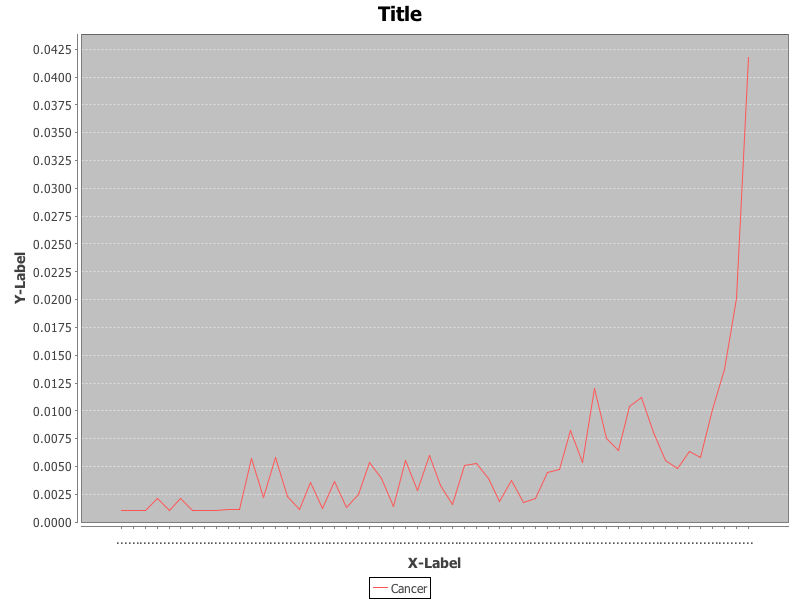
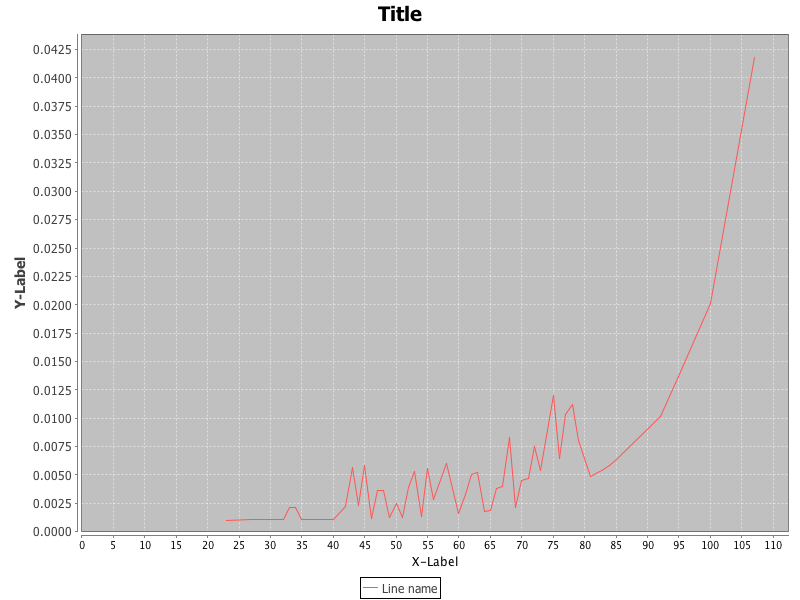
Rewrote the ChartCreator by implementing a builder-type pattern to minimize the number of arguments per function and making it easier to implement more types of charts and settings.

diff --git a/SparkMaster/src/main/java/christianmesch/sparkmaster/misc/ChartCreator.java b/SparkMaster/src/main/java/christianmesch/sparkmaster/misc/ChartCreator.java
@@ -16,52 +16,174 @@ import java.util.Map.Entry;
 import org.jfree.chart.ChartFactory;
 import org.jfree.chart.ChartUtilities;
 import org.jfree.chart.JFreeChart;
+import org.jfree.chart.axis.NumberAxis;
+import org.jfree.chart.axis.NumberTickUnit;
 import org.jfree.chart.plot.PlotOrientation;
-import org.jfree.data.category.DefaultCategoryDataset;
+import org.jfree.chart.plot.XYPlot;
+import org.jfree.data.xy.XYSeries;
+import org.jfree.data.xy.XYSeriesCollection;
 
 /**
- *
+ * Class for creating charts. It's built using a patten which resembles builder pattern. <br>
+ * You use it by creating an instance of the class and then call setters one after another, <br>
+ * i.e. chart.setTitle("Title").setxLabel("X-label");<br>
+ * and then call the method for the chart you want <br>
+ * i.e. chart.createRateChart();
+ * 
  * @author Christian Mesch
  */
 public class ChartCreator {
+
+	private final Report report;
+	private String filePath;
+	private String title;
+	private String xLabel;
+	private String yLabel;
+	private String lineName;
+	private int width;
+	private int height;
+	private int stepSize;
+	private String[] events;
+	
+	public ChartCreator(Report report) {
+		this.report = report;
+		
+		this.filePath = "chart.png";
+		this.width = 800;
+		this.height = 600;
+		this.stepSize = 1;
+	}
+	
+	/**
+	 * Set file path for chart image. Should end in ".png"
+	 * @param filePath Path to save image to
+	 * @return this
+	 */
+	public ChartCreator setFilePath(String filePath) {
+		this.filePath = filePath;
+		return this;
+	}
+
+	/**
+	 * Set title for the chart
+	 * @param title Title for the chart
+	 * @return this
+	 */
+	public ChartCreator setTitle(String title) {
+		this.title = title;
+		return this;
+	}
+
+	/**
+	 * Set label for x-axis
+	 * @param xLabel Label for x-axis
+	 * @return this
+	 */
+	public ChartCreator setxLabel(String xLabel) {
+		this.xLabel = xLabel;
+		return this;
+	}
+
+	/**
+	 * Set label for y-axis
+	 * @param yLabel Label for y-axis
+	 * @return this
+	 */
+	public ChartCreator setyLabel(String yLabel) {
+		this.yLabel = yLabel;
+		return this;
+	}
+
+	/**
+	 * Set name of line for legend
+	 * @param lineName Line name
+	 * @return this
+	 */
+	public ChartCreator setLineName(String lineName) {
+		this.lineName = lineName;
+		return this;
+	}
+
+	/**
+	 * Set the width of the image.<br>
+	 * Default: 800 px
+	 * @param width
+	 * @return this
+	 */
+	public ChartCreator setWidth(int width) {
+		this.width = width;
+		return this;
+	}
+
+	/**
+	 * Set the height of the image.<br>
+	 * Default: 600 px
+	 * @param height
+	 * @return this
+	 */
+	public ChartCreator setHeight(int height) {
+		this.height = height;
+		return this;
+	}
+
+	/**
+	 * Set the step size of the x-axis.<br>
+	 * Default: 1
+	 * @param stepSize
+	 * @return this
+	 */
+	public ChartCreator setStepSize(int stepSize) {
+		this.stepSize = stepSize;
+		return this;
+	}
+
+	/**
+	 * Name of the events you want to create the chart from
+	 * @param events
+	 * @return this
+	 */
+	public ChartCreator setEvents(String... events) {
+		this.events = events;
+		return this;
+	}
+	
 	
 	/**
 	 * Method for creating rate charts. <br><br>
 	 * 
-	 * Right now it's only using one line. Can be fixed if needed.<br>
-	 * The saving to working directory will change as well.
+	 * Right now it's only using one line. Can be fixed if needed.
 	 * 
-	 * @param report Report to create the chart from
-	 * @param title Title of the chart
-	 * @param xLabel Label of the X axis
-	 * @param yLabel Label of the Y axis
-	 * @param lineName Name of the line in the chart
-	 * @param width Width of the chart in px
-	 * @param height Height of the chart in px
-	 * @param events One or more events to create the rate chart on
 	 * @throws IOException 
 	 */
-	public static void rateChart(Report report, String title, String xLabel,
-			String yLabel, String lineName, int width, int height, String... events) throws IOException {
+	public void createRateChart() throws IOException {
 		
-		DefaultCategoryDataset dataSet = new DefaultCategoryDataset();
+		Map<Double, Double> totalPTs = totalPersonTimes();
+		Map<Double, Integer> totalEvents = totalEvents();
 		
-		Map<Double, Double> totalPTs = totalPersonTimes(report);
-		Map<Double, Integer> totalEvents = totalEvents(report, events);
+		XYSeries series = new XYSeries(lineName);
 		
 		// Add all points to the data set
 		for(Entry<Double, Integer> entry : totalEvents.entrySet()) {
 			Double value = entry.getValue() / totalPTs.get(entry.getKey());
 			
-			dataSet.addValue(value, lineName, entry.getKey());
+			series.add(entry.getKey(), value);
 		}
 		
+		XYSeriesCollection dataSet = new XYSeriesCollection(series);
+		
 		// Create chart object
-		JFreeChart chartObject = ChartFactory.createLineChart(title, xLabel,
+		JFreeChart chartObject = ChartFactory.createXYLineChart(title, xLabel,
 				yLabel, dataSet, PlotOrientation.VERTICAL, true, true, false);
 		
-		// Save as chart.png to working directory
-		File chart = new File("chart.png");
+		NumberAxis xAxis = new NumberAxis(xLabel);
+		xAxis.setTickUnit(new NumberTickUnit(stepSize));
+		xAxis.setAutoRange(true);
+		
+		XYPlot plot = chartObject.getXYPlot();
+		plot.setDomainAxis(xAxis);
+		
+		// Save as chart to disk
+		File chart = new File(filePath);
 		ChartUtilities.saveChartAsPNG(chart, chartObject, width, height);
 	}
 	
@@ -71,7 +193,7 @@ public class ChartCreator {
 	 * @param report Report to calculate from
 	 * @return Map with the total person times for all ages
 	 */
-	private static Map<Double, Double> totalPersonTimes(Report report) {
+	private Map<Double, Double> totalPersonTimes() {
 		Map<Double, Double> aggregatePTs = new HashMap<>();
 		
 		for(Entry<PTKey, Double> entry : report.getPersonTimes().entrySet()) {
@@ -91,7 +213,7 @@ public class ChartCreator {
 	 * @param events The events to be counted
 	 * @return Map with the total count of events for all ages
 	 */
-	private static Map<Double, Integer> totalEvents(Report report, String... events) {
+	private Map<Double, Integer> totalEvents() {
 		Map<Double, Integer> totalEvents = new HashMap<>();
 		
 		for(Entry<EventKey, Integer> entry : report.getEvents().entrySet()) {

diff --git a/SparkMaster/src/main/java/christianmesch/sparkmaster/SparkMaster.java b/SparkMaster/src/main/java/christianmesch/sparkmaster/SparkMaster.java
@@ -103,7 +103,17 @@ public class SparkMaster {
 		filteredPTs.printPersonTimes();
 		*/
 		
-		ChartCreator.rateChart(allReports, "Title", "X-Label", "Y-Label", "Cancer", 800, 600, "Cancer");
+		ChartCreator chart = new ChartCreator(allReports)
+				.setTitle("Title")
+				.setxLabel("X-Label")
+				.setyLabel("Y-Label")
+				.setLineName("Line name")
+				.setHeight(600)
+				.setWidth(800)
+				.setStepSize(5)
+				.setEvents("Cancer");
+		
+		chart.createRateChart();
 		
 		allReports.report();
 
